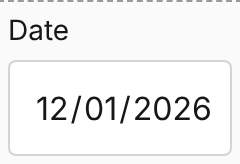
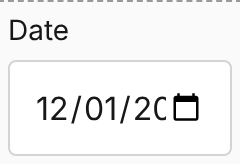
fix(Input): 日付の欄の縦の中央を、欄の flex から中の値の擬似要素に替える (#181)
欄そのものを display:flex にすると、Chromium でカレンダーの絵が右端から
文字の直後に動いた。欄は block のまま (base に戻す) にし、iOS の Safari に
だけある ::-webkit-date-and-time-value を flex / items-center / h-full /
min-h-[1.5em] / text-left で縦の中央・左揃えにする (実機で中央になった形)。
Chromium では date の欄も main と画素まで同じ。

Overview の play は、欄の appearance: none・min-width: 0・display: block と、
Storybook の CSS に擬似要素の規則が出ていることを見る形に替えた。

Claude-Session: https://claude.ai/code/session_01P7kEUoPfdKZjvkg8Mpe2CF

Changed region(s): [[0.6708, 0.5488, 0.875, 0.7622]]

diff --git a/components/primitives/Input/Input.tsx b/components/primitives/Input/Input.tsx
@@ -112,13 +112,14 @@ type _InternalInputProps = InputBaseProps & {
  * - variants.size: 高さ + テキストサイズ (パディングは compound で決定)
  * - variants.error: 通常 (border-border) vs エラー (border-error + bg-error-muted)
  * - variants.fullWidth: w-full の付与
- * - variants.isDate: 日付の欄 (type="date") だけの指定 (iPhone の Safari のはみ出し対策 #181)。false は block
+ * - variants.isDate: 日付の欄 (type="date") だけの指定 (iPhone の Safari のはみ出し対策 #181)
  * - variants.hasLeadingIcon / hasTrailingIcon: padding 計算用 (見た目に直接影響しない)
  * - compoundVariants: size × hasLeadingIcon / hasTrailingIcon で左右の padding を決定
  *   (アイコンスペース確保のため `pl-{N}` / `pr-{N}`)
  */
 const inputVariants = tv({
   base: [
+    'block',
     'rounded-sm',
     'border',
     'bg-surface',
@@ -151,20 +152,23 @@ const inputVariants = tv({
     // 日付の欄 (type="date") だけの指定 (#181)。iPhone の Safari は端末の見た目 (appearance: auto) の
     // 日付の欄に中身からの幅の下限を持たせ、w-full より広くなって親の右にはみ出す。
     // min-width / max-width だけでは直らず、appearance: none で端末の見た目を外すと直る (実機で確認)。
-    // 外すと中の文字が上に寄るので、flex + items-center で縦の中央に置く (高さの数字を持たないので size を問わない)。
-    // 中の値 (::-webkit-date-and-time-value) は Safari が中央寄せにするので左に揃える。
-    // display は block と flex が同じ要素で争わないよう、ここで片方だけを付ける (出力の CSS の順序に頼らない)。
+    // 外すと中の文字が上に寄るので、中の値の擬似要素 (::-webkit-date-and-time-value、iOS の Safari にだけある)
+    // を flex + items-center + 高さいっぱいにして縦の中央に置き、左に揃える (Safari は中央寄せにする)。
+    // 欄そのものは block のまま (欄を flex にすると Chromium でカレンダーの絵が文字の直後に動くため)。
+    // 擬似要素の指定は Chromium・Firefox には当たらない (その擬似要素が無い)。
     isDate: {
       true: [
-        'flex',
-        'items-center',
         'appearance-none',
         '[-webkit-appearance:none]',
         'min-w-0',
         'max-w-full',
+        '[&::-webkit-date-and-time-value]:flex',
+        '[&::-webkit-date-and-time-value]:items-center',
+        '[&::-webkit-date-and-time-value]:h-full',
+        '[&::-webkit-date-and-time-value]:min-h-[1.5em]',
         '[&::-webkit-date-and-time-value]:text-left',
       ],
-      false: 'block',
+      false: '',
     },
     hasLeadingIcon: { true: '', false: '' },
     hasTrailingIcon: { true: '', false: '' },

diff --git a/components/primitives/Input/Input.stories.tsx b/components/primitives/Input/Input.stories.tsx
@@ -84,15 +84,41 @@ export const Overview: Story = {
     },
   },
   // 日付の欄が iPhone の Safari で親の右にはみ出す不具合 (#181) は WebKit でしか起きず、ここ (Chromium) では
-  // 再現しない。代わりに、直すために効いているべき宣言が日付の欄に当たっていることを守る。
+  // 再現しない。代わりに、直すために効いているべき宣言を守る:
+  // (1) 欄の計算後の値 (appearance: none・min-width: 0・display: block。欄を flex にしない)
+  // (2) 中の値の擬似要素 (::-webkit-date-and-time-value) は iOS の Safari にしか無く、Chromium の計算後の値では
+  //     見られない。Storybook の CSS にその規則 (flex・items-center・高さいっぱい・左揃え) が出ていることを見る。
+  //     規則が出ていることまでで、Safari で当たることは確かめられない。
   play: async ({ canvasElement }) => {
     const input = canvasElement.querySelector<HTMLInputElement>('#input-date-md');
     await expect(input).not.toBeNull();
     const cs = getComputedStyle(input!);
     await expect(cs.appearance).toBe('none');
     await expect(cs.minWidth).toBe('0px');
-    await expect(cs.display).toBe('flex');
-    await expect(cs.alignItems).toBe('center');
+    await expect(cs.display).toBe('block');
+    const decls: Record<string, string> = {};
+    for (const sheet of Array.from(document.styleSheets)) {
+      let rules: CSSRuleList;
+      try { rules = sheet.cssRules; } catch { continue; }
+      const walk = (list: CSSRuleList) => {
+        for (const r of Array.from(list)) {
+          if (r instanceof CSSStyleRule && r.selectorText.includes('::-webkit-date-and-time-value')
+            && input!.matches(r.selectorText.replace(/::-webkit-date-and-time-value/g, ''))) {
+            for (const p of Array.from(r.style)) decls[p] = r.style.getPropertyValue(p);
+          } else if ('cssRules' in r) {
+            walk((r as CSSGroupingRule).cssRules);
+          }
+        }
+      };
+      walk(rules);
+    }
+    await expect(decls).toMatchObject({
+      display: 'flex',
+      'align-items': 'center',
+      height: '100%',
+      'min-height': '1.5em',
+      'text-align': 'left',
+    });
   },
   render: () => (
     <div className="flex flex-col gap-8">

diff --git a/CHANGELOG.md b/CHANGELOG.md
@@ -149,9 +149,9 @@
 
 ### Fixed
 
-- **Input: iPhone の Safari で、日付の欄 (`type="date"`) が親の幅を越えて右にはみ出していた** (#181): 日付の欄のときだけ、端末の見た目を外し (`appearance: none`、`-webkit-appearance` も)、`min-width: 0`・`max-width: 100%` を付け、中の文字を `display: flex` + `align-items: center` で縦の中央に、中の値 (`::-webkit-date-and-time-value`) を左揃えにした。date 以外の type は変わらない (Chromium で画素まで同じ)
-  - **見た目の変化 (date だけ)**: 幅・高さ (sm 40 / md 48 / lg 56px)・文字の位置・枠・エラー・disabled・フォーカスの輪は変わらない。**Chromium では、カレンダーの絵 (18〜20px) が欄の右端から、文字のすぐ右に移る** (`display: flex` で、ブラウザ内部の入れ物が中身の幅に縮むため。入れ物は利用側から指定できない `-internal-` の擬似要素)。絵は残り、押して選ぶ・キーボードで打つ・矢印キーで増減は今までどおり。幅 120px のような狭い親では、文字が切れずに見え、絵が欄の外に隠れる (前は文字が切れて絵が見えていた)。Overview に日付の段を、EdgeCases (狭い親の中の日付の欄) を足した (Chromatic の写真が変わる・増える)
-  - **配信契約 (§10-6 (c))**: BREAKING ではない。日付の欄のクラスから `block` が外れ、`flex`・`items-center`・`appearance-none`・`[-webkit-appearance:none]`・`min-w-0`・`max-w-full`・`[&::-webkit-date-and-time-value]:text-left` が付く。`dist/styles.css` には規則が増えるだけで、消える・名前が変わるクラス・`data-*`・CSS 変数は無い。date 以外の欄のクラスは変わらない
+- **Input: iPhone の Safari で、日付の欄 (`type="date"`) が親の幅を越えて右にはみ出していた** (#181): 日付の欄のときだけ、端末の見た目を外し (`appearance: none`、`-webkit-appearance` も)、`min-width: 0`・`max-width: 100%` を付けた。外すと中の文字が上に寄るので、中の値の擬似要素 (`::-webkit-date-and-time-value`、iOS の Safari にだけある) を `display: flex`・`align-items: center`・`height: 100%`・`min-height: 1.5em` で縦の中央に、`text-align: left` で左揃えにした。欄そのものは `block` のまま。date 以外の type は変わらない
+  - **見た目の変化**: Chromium では無い (date の欄も、幅・高さ・文字とカレンダーの絵の位置が同じで、写真が画素まで同じ。`appearance: none` は Chromium の日付の欄の見た目を変えず、擬似要素の指定は Chromium に無い擬似要素なので当たらない)。iPhone の Safari では、端末の見た目が外れ、文字が左揃え・縦の中央になる。Overview に日付の段を、EdgeCases (狭い親の中の日付の欄) を足した (Chromatic の写真が変わる・増える)
+  - **配信契約 (§10-6 (c))**: BREAKING ではない。日付の欄に `appearance-none`・`[-webkit-appearance:none]`・`min-w-0`・`max-w-full` と `[&::-webkit-date-and-time-value]:` の付いた `flex`・`items-center`・`h-full`・`min-h-[1.5em]`・`text-left` が付く。`dist/styles.css` には規則が増えるだけで、消える・名前が変わるクラス・`data-*`・CSS 変数は無い。date 以外の欄のクラスは変わらない
 
 - **preset で使う利用側 (モード 2) で、選んだ Radio の白い点・チェックした Checkbox のチェックの絵 (indeterminate の横棒も)・ProgressBar の indeterminate の動きが出なかった** (#178): これらの規則 (`.ds-radio:checked` / `.ds-checkbox:checked` / `.ds-checkbox:indeterminate` / `@keyframes indeterminate`) は `styles/components.css` にあり、Storybook と配信バンドル (`dist/styles.css`) だけが @import していた。preset がこれらを components 層に生成するようにし、`styles/components.css` は消した (正本は `tokens/preset.cjs` だけ)。モード 2 の利用側は、DS を上げて再ビルドするだけで直る (設定の変更は要らない)
   - **配信契約 (§10-6 (c))**: BREAKING ではない。出荷するクラス名・属性・CSS 変数名は変わらない。`dist/styles.css` (モード 1) の中身は、同じ 4 つの規則が同じ値で 1 回ずつ、場所が `@tailwind base` の前から components 層 (focus-ring の後、utilities の前) に移っただけで、utilities との順序も同じ。`styles/components.css` は exports にも files にも無かったので、消しても利用側は壊れない
